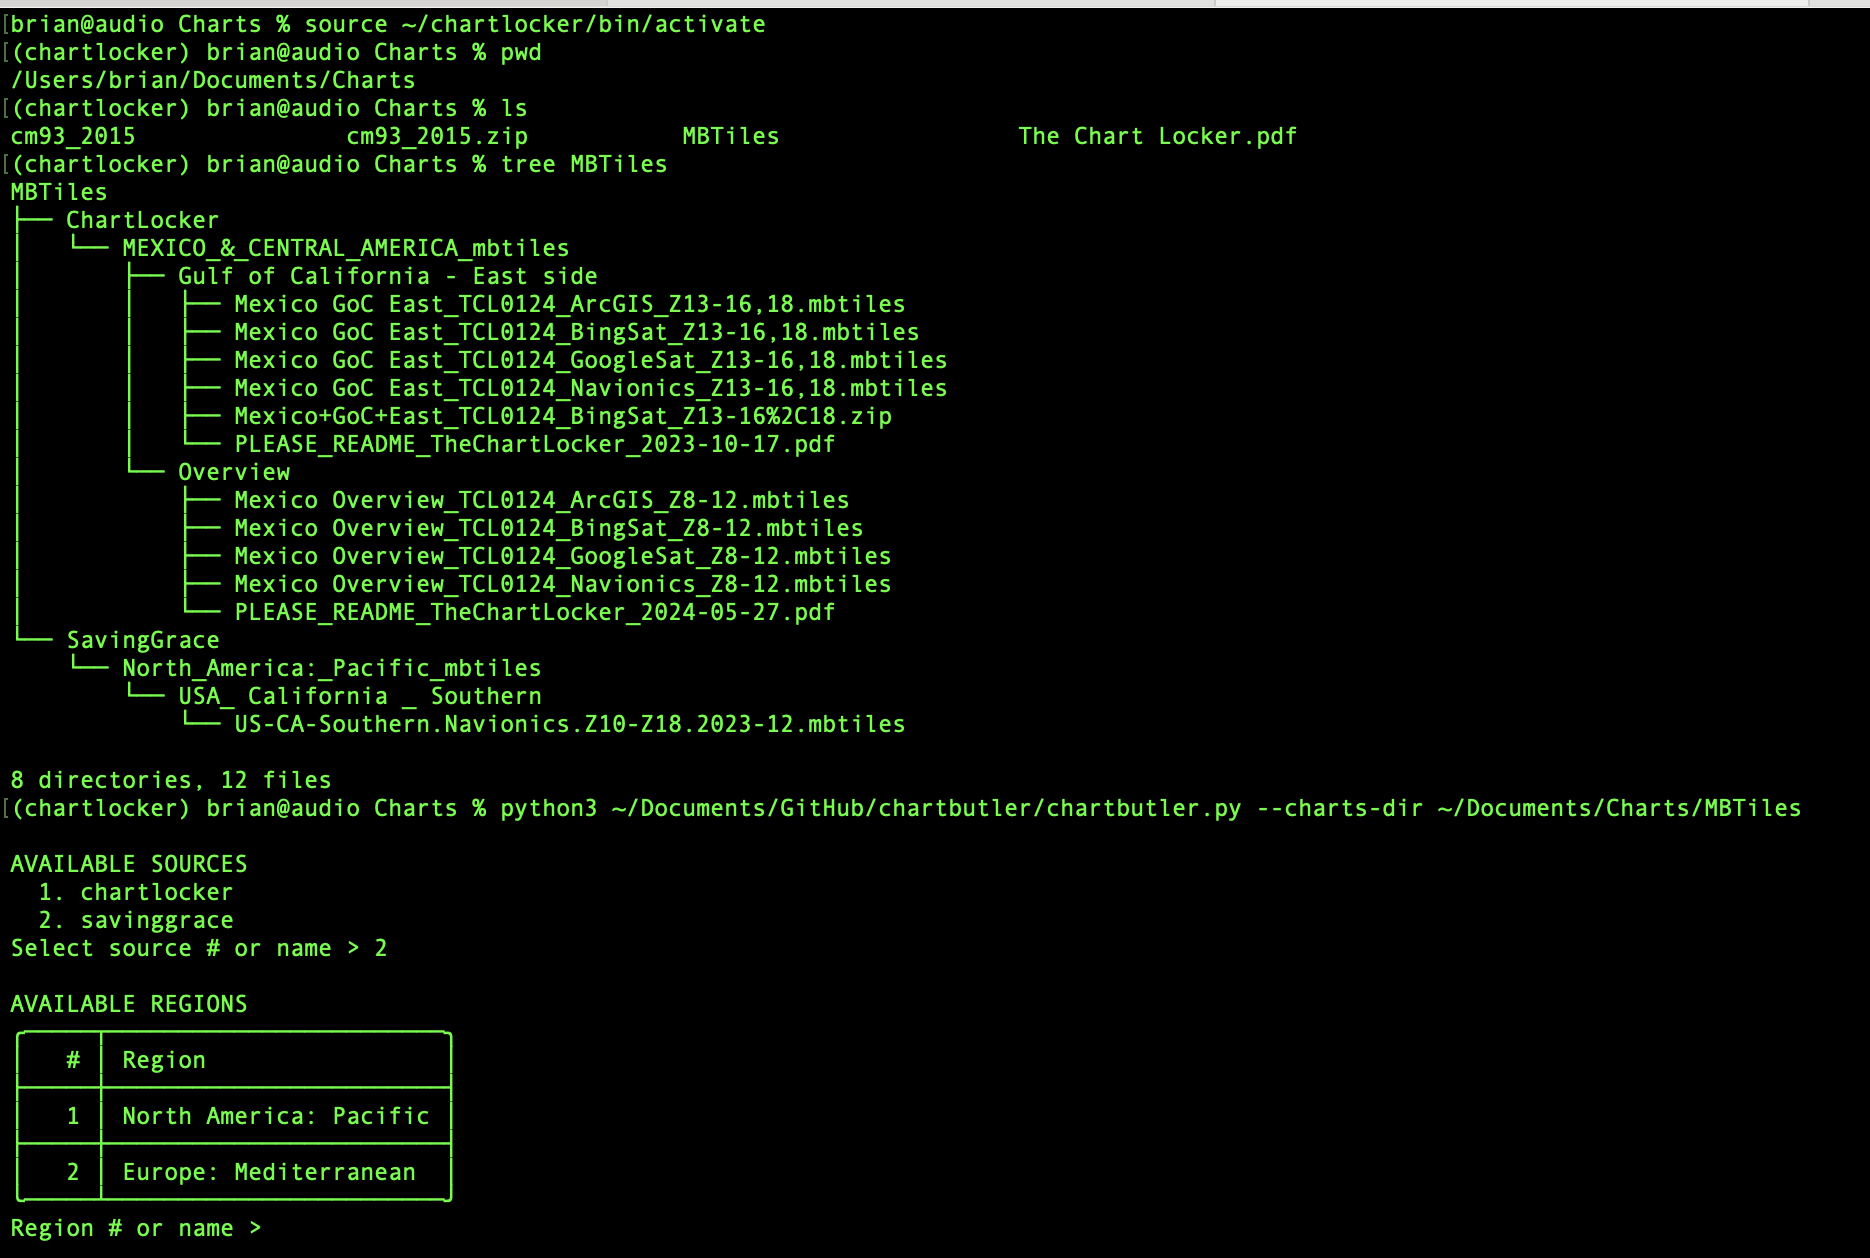
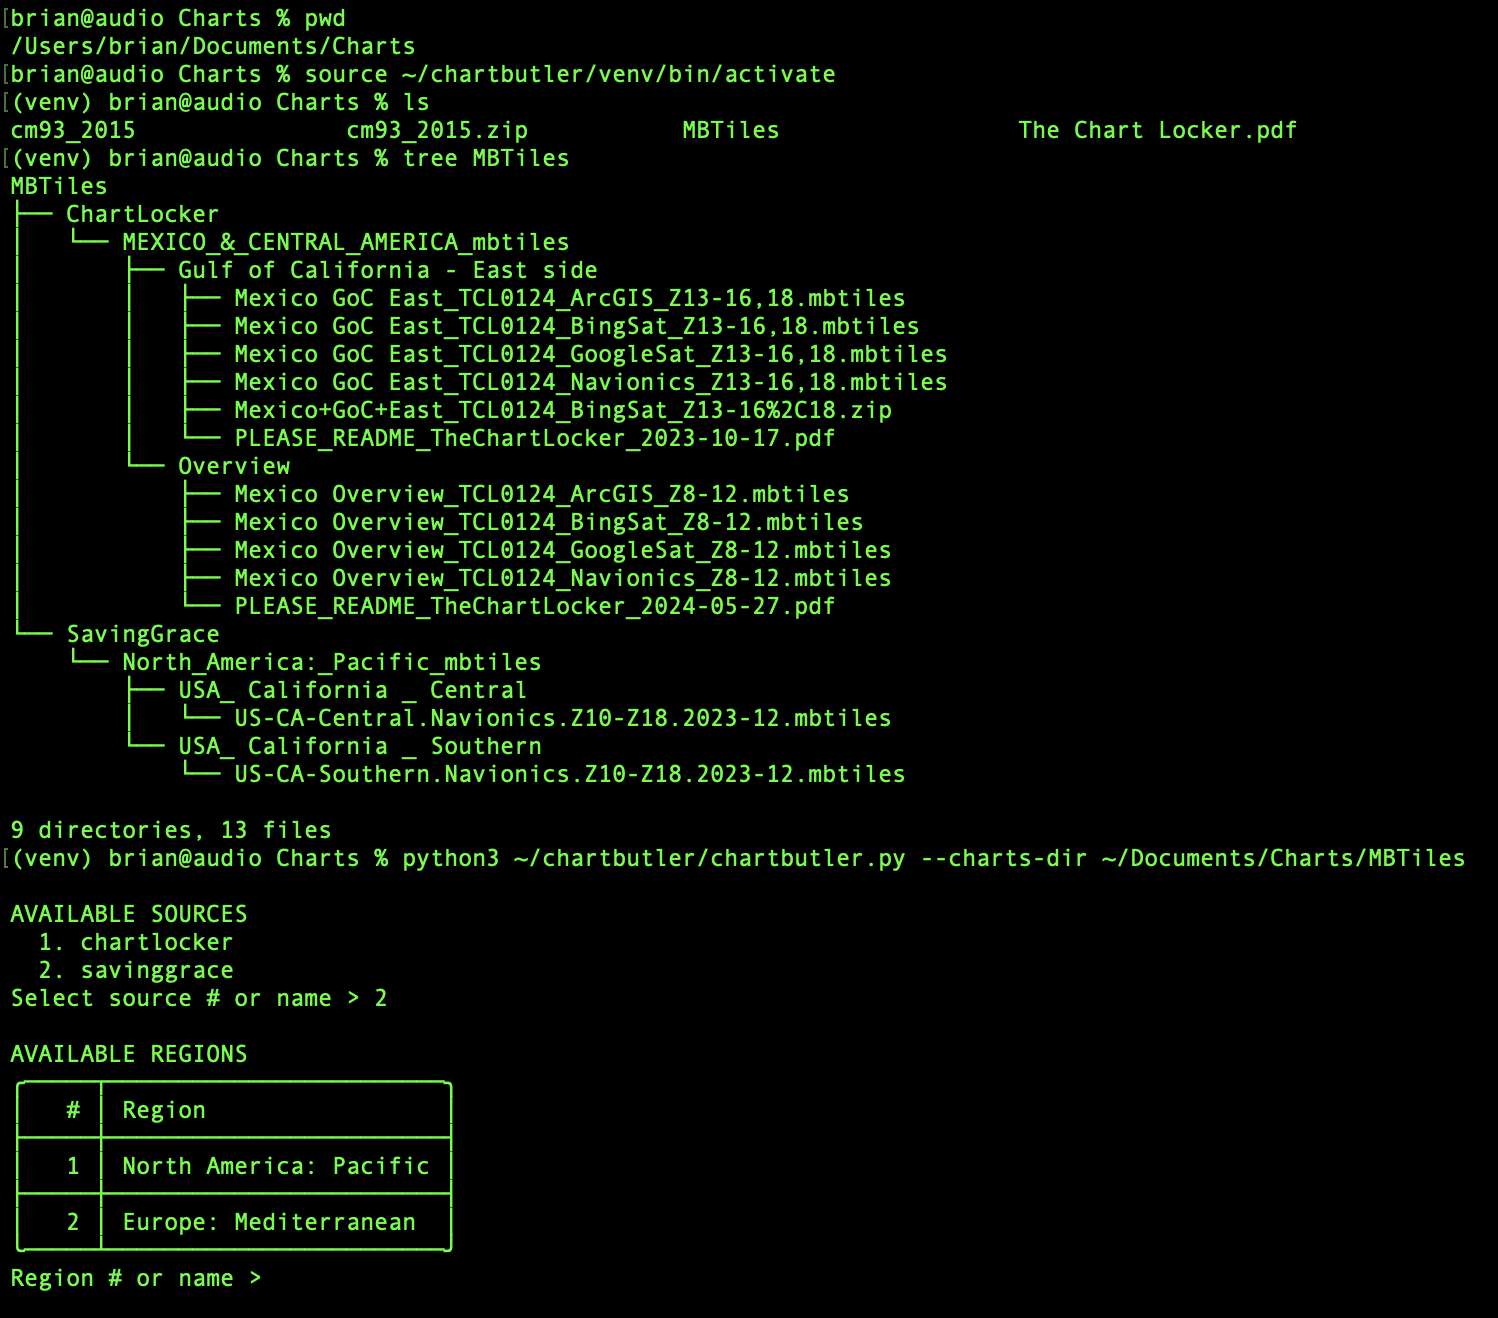
Updating screenshots with user relevant directory structure

Changed region(s): [[0.0, 0.0, 1.0, 0.9921], [0.5527, 0.093, 0.8598, 0.124], [0.4606, 0.093, 0.522, 0.124]]

diff --git a/README.md b/README.md
@@ -56,7 +56,9 @@ The script will prompt you to select a region and then the files to download.
 
 A typical workflow keeps the script in one directory and downloads charts into a separate folder. For example:
 
-![Virtualenv setup and CLI invocation](screenshots/cli_a.png)
+![Virtualenv setup](screenshots/setup.png)
+
+![CLI invocation](screenshots/cli_a.png)
 
 ![Downloading charts into the `charts` directory](screenshots/cli_b.png)
 
